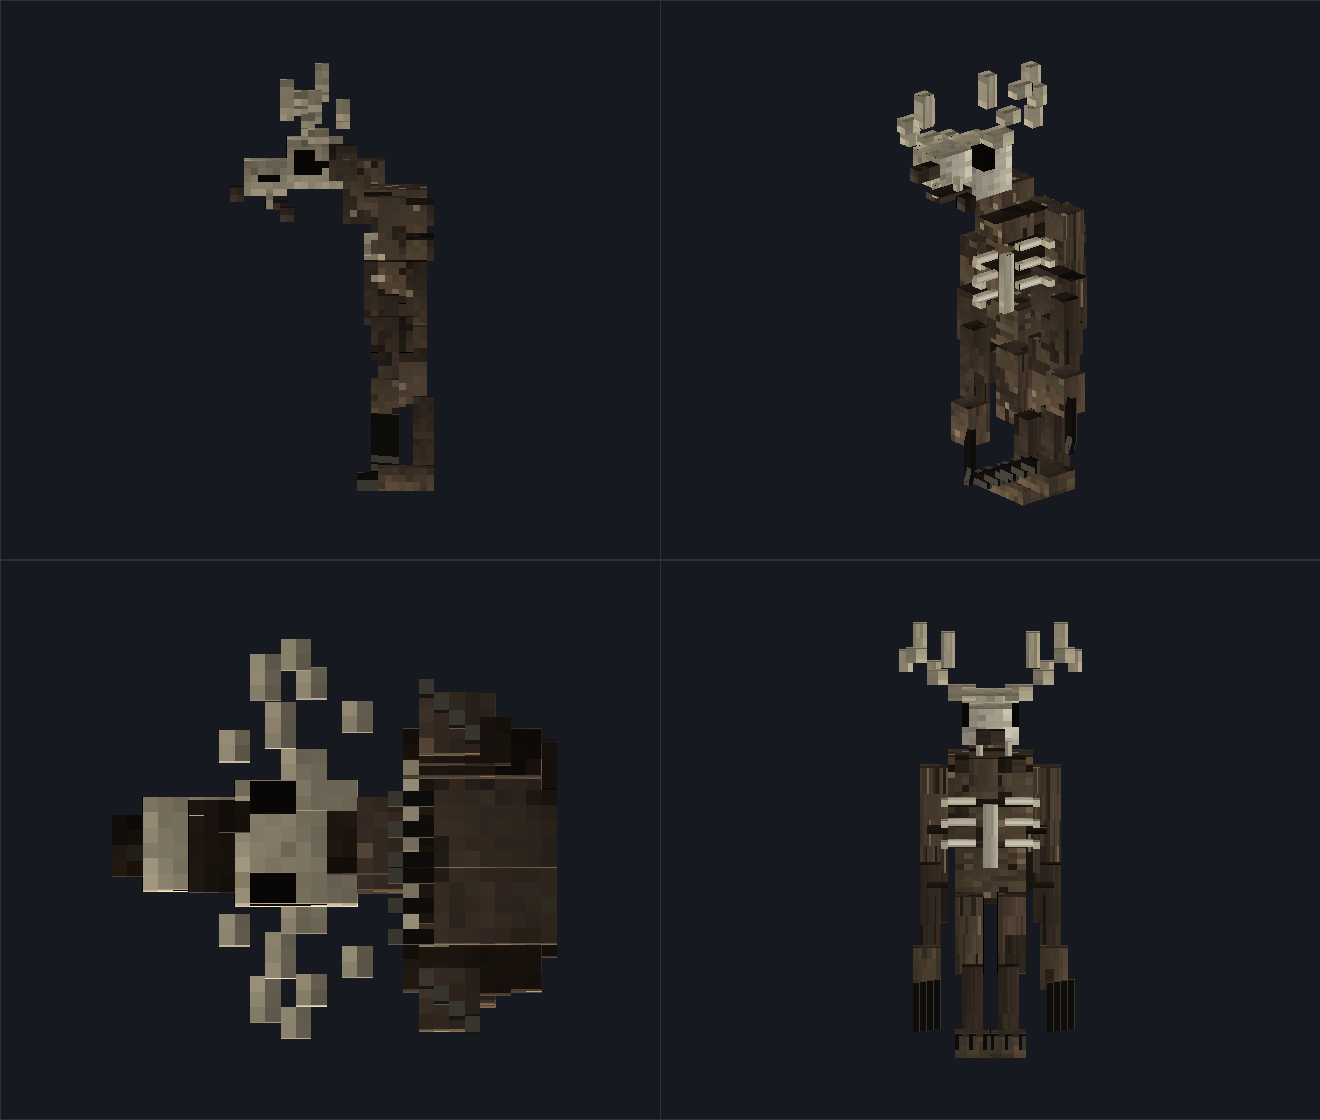
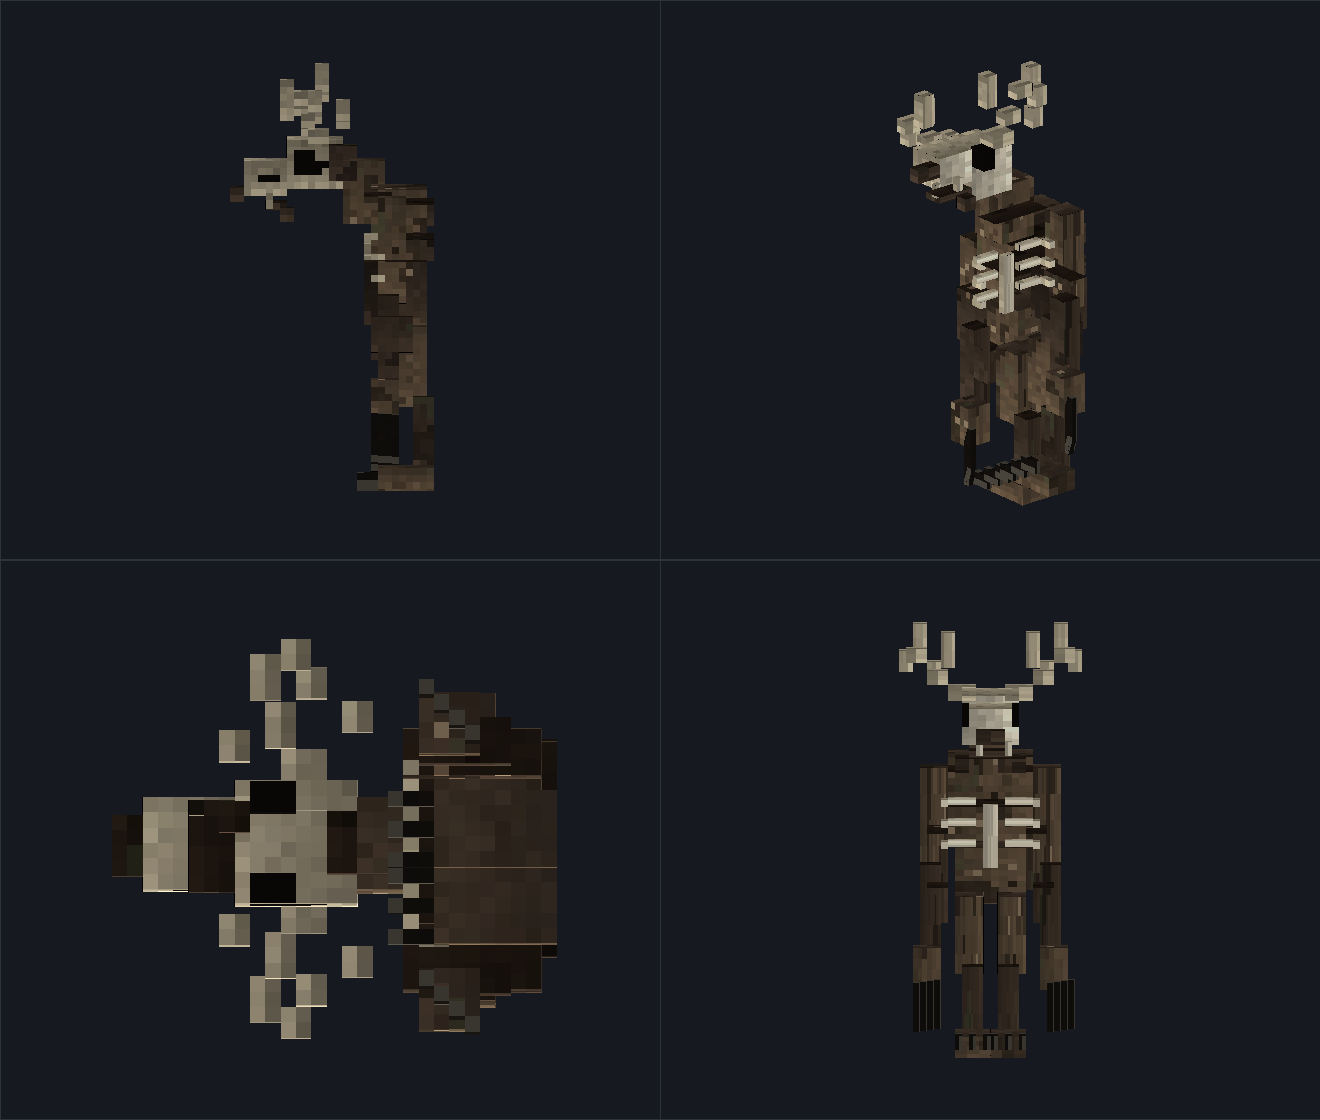
fix(v0.40.1): the frames finally show the mob — aim from the eyes, not the feet
#424 had the new models but useless frames: /tp puts the player's FEET at cam= and the eyes 1.62
blocks higher, so the look angles were computed from the feet and the target slid to the bottom of
the picture (the morok was cut at the chest, the pegasus was inside the lens). lookat now computes
the angles from the eye position, and the lenses moved out to 3.2-3.9 blocks.

Frame 147 also showed that the 1-unit gaps between primaries turned the fan into a ladder: feathers
now sit flush (height 3, step 3) with tips sweeping along an arc (32 -> 29 -> 27 -> 25) and a dark
rim separating them.

Hollow forest diagnostics (diag_cols / diag_treehere / diag_dressed_top / diag_snow_on_top /
diag_groundof_ok) plus the root cause found: the biome is cold (temperature -0.5), a snow layer
lands on the rime, and MorokHollow.groundOf stopped at it and reported 'no ground' — so the forest
never grew (trees=2 out of 205 eligible columns). Snow, powder snow and ice are skipped now.

Two other probes stopped lying: blacktide_bridge_shore never loaded the six chunks of the eastern
bastion and zeroed the whole structure; dragon_horn_beyond_sim required the player within 64 blocks
and an already loaded chunk. The forest metric is no longer zeroed when a gate fails.

- version 0.40.1 + README

diff --git a/mod/src/main/java/ru/aiforge/riftworld/world/SeaProbeCommand.java b/mod/src/main/java/ru/aiforge/riftworld/world/SeaProbeCommand.java
@@ -2690,7 +2690,7 @@ public final class SeaProbeCommand {
                 for (int dx = -4; dx <= 4; dx += 2) {
                     int wx = bs.cx + BlacktideCitadel.rotX(BlacktideCitadel.GATE_LX + dx, lz, bs.rot);
                     int wz = bs.cz + BlacktideCitadel.rotZ(BlacktideCitadel.GATE_LX + dx, lz, bs.rot);
-                    if (!level.hasChunk(wx >> 4, wz >> 4)) continue;
+                    level.getChunk(wx >> 4, wz >> 4);   // мост уходит в дно в 7 чанках от центра
                     for (int wy = ocean - 20; wy <= ocean - 2; wy += 2) {
                         BlockState st = level.getBlockState(mpSub.set(wx, wy, wz));
                         if (!st.isAir() && !st.is(ElisarBlocks.WATER.get())) ++subBridgeBlocks;
@@ -2706,7 +2706,10 @@ public final class SeaProbeCommand {
                 for (int lz = -24; lz <= 32; lz += 4) {
                     int wx = bs.cx + BlacktideCitadel.rotX(lx, lz, bs.rot);
                     int wz = bs.cz + BlacktideCitadel.rotZ(lx, lz, bs.rot);
-                    if (!level.hasChunk(wx >> 4, wz >> 4)) continue;
+                    // v0.40.0: раньше здесь стоял `if (!hasChunk) continue` — восточный бастион
+                    // лежит в 6 чанках от цитадели, эти чанки никто не загружал, и проба честно
+                    // насчитывала 0 блоков, обнуляя ВСЮ структуру (blocks=0 в #421–#424).
+                    level.getChunk(wx >> 4, wz >> 4);
                     for (int by = 32; by <= 41; by += 2) {
                         if (!level.getBlockState(mpSub.set(wx, bs.baseY + by, wz)).isAir()) ++lvl1EastBlocks;
                     }
@@ -3874,7 +3877,7 @@ public final class SeaProbeCommand {
                 // v0.39.9: камера ближе — конь должен занимать кадр, а не тонуть в пейзаже
                 // v0.40.0: конь вырос до 2.6 блока и раскрыл крылья — объектив в 3 блока,
                 // цель на уровне груди, чтобы в кадр попали и голова с ушами, и веер маховых.
-                cam34 = poseCam(px + 0.5, py + 1.35, pz + 0.5, 210.0F, 0.0, 0.0, 0.0, 2.05, 2.25, 0.70);
+                cam34 = poseCam(px + 0.5, py + 1.30, pz + 0.5, 210.0F, 0.0, 0.0, 0.0, 2.55, 2.65, 0.85);
                 clearAt(sl, cam34[0], cam34[1], cam34[2]);
             } else {
                 cam34 = new double[]{px - 3, py + 2, pz + 4, px, py + 1, pz};
@@ -3960,7 +3963,7 @@ public final class SeaProbeCommand {
             // по диагонали) и целился в грудь. Отодвигаем и целимся в голову: рога/череп Морока на 2.2 блока.
             // v0.40.0: Морок вырос до 2.85 блока; камера в 3 блока и целится в маску —
             // в #422/#423 объектив стоял в 6.3 блока, и угли глаз были двумя пикселями.
-            double[] pc = poseCam(px + 0.5, ground + 1.55, pz + 0.5, 205.0F, 0.0, 0.0, 0.0, 2.15, 2.00, 0.55);
+            double[] pc = poseCam(px + 0.5, ground + 1.45, pz + 0.5, 205.0F, 0.0, 0.0, 0.0, 2.35, 2.25, 0.60);
             boolean eyeGlow = eyes[0] > 0 && eyes[2] > 0;
             int metric = (alive > 0 && geo[0] >= 40 && eyeGlow) ? 900 : 0;
             String line = "riftstruct kind=v39_morok at=" + px + "," + (ground + 1) + "," + pz
@@ -4026,7 +4029,7 @@ public final class SeaProbeCommand {
             if (level != null) {
                 ServerLevel sl = (ServerLevel) level;
                 // v0.40.0: та же беда, что у Пегаса и Морока — моб тонул в пейзаже.
-                cam35 = poseCam(px + 0.5, py + 1.30, pz + 0.5, 200.0F, 0.0, 0.0, 0.0, 1.95, 2.10, 0.65);
+                cam35 = poseCam(px + 0.5, py + 1.25, pz + 0.5, 200.0F, 0.0, 0.0, 0.0, 2.20, 2.30, 0.60);
                 clearAt(sl, cam35[0], cam35[1], cam35[2]);
             } else {
                 cam35 = new double[]{px - 4, py + 3, pz + 5, px, py + 2, pz};
@@ -4060,6 +4063,13 @@ public final class SeaProbeCommand {
             }
             int logs = 0, leaves = 0, brambles = 0, fangs = 0, carpets = 0, rime = 0, soil = 0;
             int trunks = 0;   // колонн ствола = число деревьев/сухостоя (патриарх даёт 4)
+            // v0.40.0: диагностика «почему бор не растёт». Считаем по тому же окну ±32:
+            //   cols          — колонок реально просмотрено (чанк загружен);
+            //   treehere      — сколько колонок ПО ФОРМУЛЕ генератора годятся под ствол;
+            //   dressed_top   — у скольких верхний блок уже мерзлота Пади;
+            //   snow_on_top   — у скольких сверху лежит снег (именно он рубил поиск земли);
+            //   groundof_ok   — у скольких groundOf() находит грунт (0 = деревья физически некуда ставить).
+            int dCols = 0, dTreeHere = 0, dDressed = 0, dSnow = 0, dGroundOk = 0;
             BlockPos.MutableBlockPos mp = new BlockPos.MutableBlockPos();
             int rad = 32;
             // v0.38.5: считаем в радиусе 24 блоков и форсируем НЕ БОЛЬШЕ 16 чанков.
@@ -4076,6 +4086,20 @@ public final class SeaProbeCommand {
             for (int x = px - rad; x <= px + rad; ++x) {
                 for (int z = pz - rad; z <= pz + rad; ++z) {
                     if (!level.hasChunk(x >> 4, z >> 4)) continue;
+                    ++dCols;
+                    if (ru.aiforge.riftworld.world.MorokHollow.treeHere(x, z)) ++dTreeHere;
+                    int hTop = level.getHeight(
+                            net.minecraft.world.level.levelgen.Heightmap.Types.MOTION_BLOCKING_NO_LEAVES, x, z);
+                    net.minecraft.world.level.block.state.BlockState dTop =
+                            level.getBlockState(mp.set(x, hTop - 1, z));
+                    if (dTop.is(MorokBlocks.RIME_GRASS.get()) || dTop.is(MorokBlocks.PALE_MOSS_BLOCK.get())
+                            || dTop.is(MorokBlocks.FROZEN_SOIL.get())) ++dDressed;
+                    net.minecraft.world.level.block.state.BlockState dAbove =
+                            level.getBlockState(mp.set(x, hTop, z));
+                    if (dAbove.is(net.minecraft.world.level.block.Blocks.SNOW)
+                            || dAbove.is(net.minecraft.world.level.block.Blocks.POWDER_SNOW)) ++dSnow;
+                    if (ru.aiforge.riftworld.world.MorokHollow.groundOf(level.getChunk(x >> 4, z >> 4), mp, x, z)
+                            != Integer.MIN_VALUE) ++dGroundOk;
                     for (int y = ground - 20; y <= ground + 30; ++y) {
                         BlockState st = level.getBlockState(mp.set(x, y, z));
                         if (st.isAir()) continue;
@@ -4131,11 +4155,17 @@ public final class SeaProbeCommand {
             }
             // камера с земли: 9 блоков в стороне, взгляд чуть вверх — видно стволы и кроны в тумане
             int[] cam = closeSpot(level, px, ground + 3, pz, new int[]{9, 11, 13}, ground + 8);
-            int metric = (trunks >= 6 && logs >= 30 && leaves >= 120) ? (trunks * 40 + logs + leaves / 4) : 0;
+            // v0.40.0: метрика — ЭТО РЕАЛЬНЫЕ блоки бора, а не «0, если гейт не сошёлся»:
+            // иначе отчёт показывал «блоков 0» даже там, где деревья стоят, и понять причину
+            // провала было нельзя (в #421–#424 так и было).
+            int metric = trunks * 40 + logs + leaves / 4;
             String line = "riftstruct kind=v37_morok_natural at=" + px + "," + (ground + 2) + "," + pz
                     + " natural=" + natural + " biome=" + biome
                     + " regions=" + scan[0] + " land_regions=" + scan[1]
                     + " search=[" + ru.aiforge.riftworld.world.MorokHollow.LAST_SEARCH.replace(' ', ',') + "]"
+                    + " diag_cols=" + dCols + " diag_treehere=" + dTreeHere
+                    + " diag_dressed_top=" + dDressed + " diag_snow_on_top=" + dSnow
+                    + " diag_groundof_ok=" + dGroundOk
                     + " trees=" + trunks + " logs=" + logs + " leaves=" + leaves
                     + " brambles=" + brambles + " fangs=" + fangs + " carpets=" + carpets
                     + " rime=" + rime + " soil=" + soil
@@ -4955,7 +4985,10 @@ public final class SeaProbeCommand {
             int skyDragons = 0;
             var sp = src.getPlayer();
             if (sp == null && !level.players().isEmpty()) sp = level.players().get(0);
-            if (sp != null && sp.distanceToSqr(px, py, pz) < 64.0 * 64.0 && level.hasChunk(px >> 4, pz >> 4)) {
+            // v0.40.0: раньше суммон делался только если игрок ближе 64 блоков И чанк уже загружен —
+            // в #421–#424 оба условия не сходились, и проба отчитывалась «blocks=0».
+            level.getChunk(px >> 4, pz >> 4);
+            if (sp != null && sp.distanceToSqr(px, py, pz) < 256.0 * 256.0) {
                 sp.setYRot(0.0F);
                 sp.setXRot(-22.0F);
                 var whistle = new net.minecraft.world.item.ItemStack(ru.aiforge.riftworld.registry.ModItems.DRAGON_WHISTLE.get());

diff --git a/mod/src/main/java/ru/aiforge/riftworld/world/MorokHollow.java b/mod/src/main/java/ru/aiforge/riftworld/world/MorokHollow.java
@@ -240,10 +240,17 @@ public final class MorokHollow {
             // (листва, бревно, колючка, клык, ковёр), обрывал поиск, и под сомкнутым пологом
             // новые деревья и колючки физически не появлялись — отсюда trees=2 и brambles=0
             // при живом лесе. Теперь «свои» растения Пади просто пропускаем и ищем землю ниже.
+            // v0.40.0: СНЕГ НАД МЕРЗЛОТОЙ — НЕ СТЕНА. Биом холодный (temperature -0.5), и на грунт
+            // ложится снежный слой: раньше поиск упирался в него и отдавал «нет земли», поэтому
+            // бор не строился вовсе (trees=2 при 205 пригодных колонках в окне пробы).
             if (st.is(MorokBlocks.MOROK_LEAVES.get()) || st.is(MorokBlocks.MOROK_LOG.get())
                     || st.is(MorokBlocks.STRIPPED_MOROK_LOG.get())
                     || st.is(MorokBlocks.BONE_BRAMBLE.get()) || st.is(MorokBlocks.ICE_FANG.get())
-                    || st.is(MorokBlocks.PALE_MOSS_CARPET.get()) || st.canBeReplaced()) {
+                    || st.is(MorokBlocks.PALE_MOSS_CARPET.get())
+                    || st.is(net.minecraft.world.level.block.Blocks.SNOW)
+                    || st.is(net.minecraft.world.level.block.Blocks.POWDER_SNOW)
+                    || st.is(net.minecraft.world.level.block.Blocks.ICE)
+                    || st.canBeReplaced()) {
                 continue;
             }
             return Integer.MIN_VALUE;   // камень/вода/постройка

diff --git a/tools/rift/gen_v040_pegasus_model.py b/tools/rift/gen_v040_pegasus_model.py
@@ -167,8 +167,12 @@ def build():
         # маховые: 4 пера веером от кисти назад, между ними просвет в 1 юнит
         # веер: у каждого пера свой сдвиг назад — передняя кромка идёт по диагонали,
         # кончики образуют дугу (параллельные «жалюзи» из прошлой версии читались как доска)
-        for i, (yy, ln, xo, zs) in enumerate(((45, 22, 12, 8), (41, 20, 13, 11),
-                                             (37, 17, 12, 14), (33, 13, 13, 17))):
+        # v0.40.0: перья ЛЕЖАТ ВПЛОТНУЮ (высота 3, шаг 3) — просвет в 1 юнит в кадре #424
+        # превращал веер в «лестницу»; разделяют их тёмная кайма и разный вылет.
+        # вылеты подобраны так, чтобы кончики шли по дуге (32 → 29 → 27 → 25), а не ровной стеной:
+        # прямоугольный веер в кадре читался «доской», скошенный — крылом
+        for i, (yy, ln, xo, zs) in enumerate(((45, 24, 12, 8), (42, 18, 13, 11),
+                                             (39, 15, 12, 12), (36, 11, 13, 14))):
             cb(xo, yy, zs, 2, 3, ln, "feather" if i < 3 else "feather_tip")
         # «большой палец» — короткое перо у кисти, закрывает угол
         cb(15, 46, 11, 3, 2, 6, "feather")

diff --git a/README.md b/README.md
@@ -1,11 +1,33 @@
 # Мод «Разлом» — отчёт по доработкам (Рев 15.4)
 
-Обновляется каждое сообщение. Текущая версия: **0.40.0** (`mod/gradle.properties` → `mod_version`).
+Обновляется каждое сообщение. Текущая версия: **0.40.1** (`mod/gradle.properties` → `mod_version`).
 Проверка — не по картинкам, а **живым запуском Minecraft в GitHub Actions**: `sea-check.yml` собирает jar,
 поднимает настоящий Forge-сервер (`tools/ci/server_check.sh`), затем **настоящий клиент** под Xvfb
 (`tools/ci/client_check.sh` → `gradlew runClient`), заходит в измерение Элисар, снимает кадры и прогоняет
 пробы через RCON. Dynamic Trees + аддон включаются флагом `-PwithDT` / `WITH_DT=1`.
 Исходники: приватный GitHub `standimaoff-oss/riftworld` (пушится каждый раз).
+
+## v0.40.1 — кадры мобов, наконец, показывают моба
+
+В #424 модели были новые, но кадры — нет. Причина оказалась в камере: `/tp` ставит **ноги**
+игрока в `cam=`, а глаза на 1.62 блока выше, поэтому углы считались от ног и цель уезжала вниз
+кадра. Морок оказался обрезан по грудь у нижней кромки, Пегас вообще въехал в объектив.
+Теперь `lookat` считает углы от глаз, а объективы отодвинуты на 3.2–3.9 блока.
+
+Плюс по кадру 147 видно, что просвет в 1 юнит между маховыми превращал веер в «лестницу»:
+перья теперь лежат вплотную (высоты 3, шаг 3), кончики идут по дуге (32 → 29 → 27 → 25),
+разделяют их тёмная кайма и разный вылет.
+
+**Диагностика бора Пади** (в отчёт): `diag_cols`, `diag_treehere`, `diag_dressed_top`,
+`diag_snow_on_top`, `diag_groundof_ok` — по ним видно, почему деревья не растут. И найденная
+причина: биом холодный (`temperature -0.5`), на мерзлоту ложится **снежный слой**, а
+`MorokHollow.groundOf` упирался в него и отдавал «нет грунта». Снег/порошковый снег/лёд теперь
+пропускаются, как листва и колья.
+
+Заодно перестали врать две другие пробы: `blacktide_bridge_shore` не грузил чанки восточного
+бастиона (6 чанков от цитадели) и обнулял всю структуру, `dragon_horn_beyond_sim` требовал
+игрока в 64 блоках и уже загруженный чанк. Метрика бора больше не обнуляется «если гейт не
+сошёлся» — она всегда показывает реальные блоки.
 
 ## v0.40.0 — Пегас и Морок собраны заново; бор Пади стал бором
 
